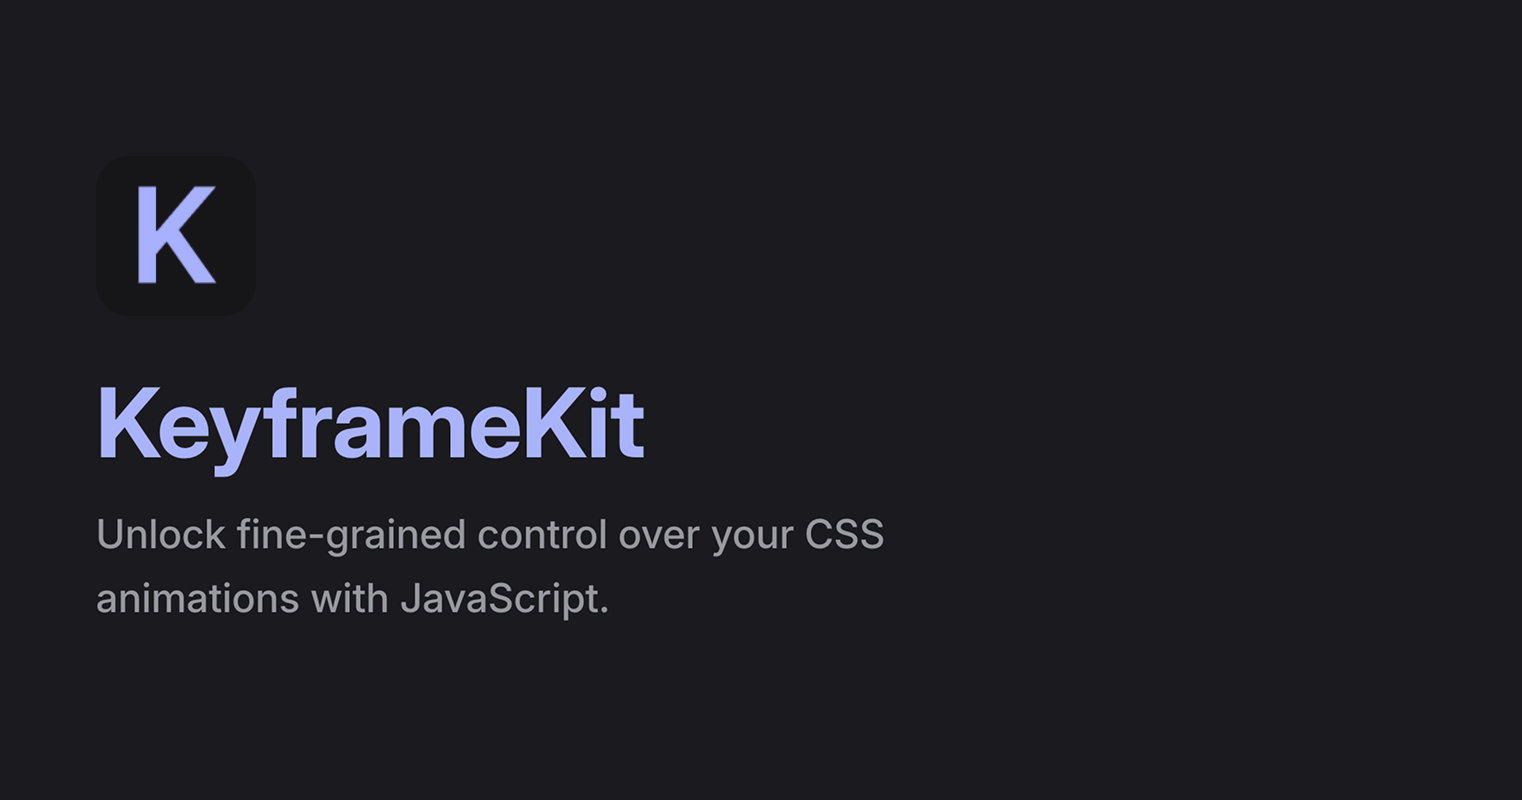
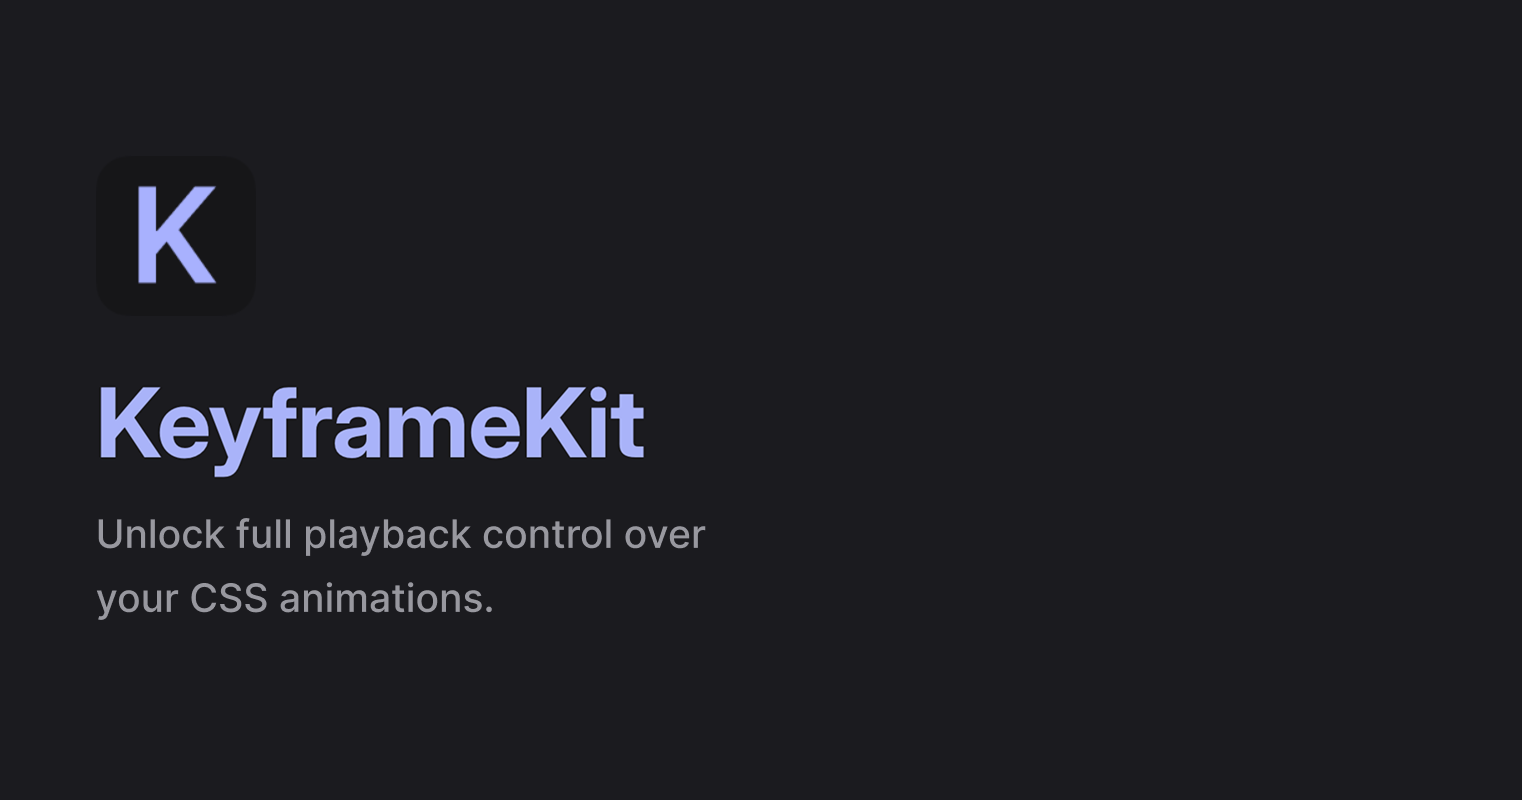
Update build

Changed region(s): [[0.0618, 0.625, 0.5867, 0.7812]]

diff --git a/src/index.ts b/src/index.ts
@@ -5,5 +5,7 @@
  * See README.md for usage.
  */
 
-export * as default from './KeyframesFactory';
+import * as KeyframesFactory from './KeyframesFactory';
+export { KeyframesFactory as default };
+
 export { KeyframeEffectParameters, type KeyframeArgument } from './KeyframeEffectParameters';

diff --git a/docs/.vitepress/config.ts b/docs/.vitepress/config.ts
@@ -35,7 +35,7 @@ export default defineConfig({
   ],
     
   title: 'KeyframeKit',
-  description: 'Unlock fine-grained control over your CSS animations with JavaScript.',
+  description: 'Unlock full playback control over your CSS animations.',
 
   titleTemplate: false,
 

diff --git a/rollup.config.ts b/rollup.config.ts
@@ -42,7 +42,6 @@ export default defineConfig([
     output: {
       file: 'dist/index.d.ts',
       format: 'es',
-      sourcemap: true,
       banner,
       // rollup-plugin-dts dosen't support es2015 syntax.
     },

diff --git a/dist/index.d.ts b/dist/index.d.ts
@@ -181,4 +181,3 @@ declare namespace index {
 
 export { KeyframeEffectParameters, index as default };
 export type { KeyframeArgument };
-//# sourceMappingURL=index.d.ts.map

diff --git a/docs/docs/public/playground/KeyframeKit/dist/index.d.ts b/docs/docs/public/playground/KeyframeKit/dist/index.d.ts
@@ -181,4 +181,3 @@ declare namespace index {
 
 export { KeyframeEffectParameters, index as default };
 export type { KeyframeArgument };
-//# sourceMappingURL=index.d.ts.map

diff --git a/docs/docs/get-started.md b/docs/docs/get-started.md
@@ -1,9 +1,9 @@
 
 # Get Started
 
-## About
+## What is this?
 
-The [Web Animations API][1] opens the browser's animation engine to developers and provides unprecedented control and performance when animating on the web. But confusingly, it provides no easy way to use your existing CSS animations with the API. So I wrote a lightweight, typed, spec-compliant library to convert stylesheet keyframes to Web Animations API-compatible animations, letting you play your CSS-defined animations right in JS. [Read more.][2]
+A lightweight TypeScript library that converts CSS `@keyframes` animations into [Web Animations API][2]-compatible animations, letting you play CSS-defined animations from JavaScript with full playback control and native performance. [Read more.][3]
 
 ## Installation
 

diff --git a/docs/docs/index.md b/docs/docs/index.md
@@ -4,7 +4,7 @@ layout: home
 
 hero:
   name: KeyframeKit
-  tagline: Unlock fine-grained control over your CSS animations with JavaScript.
+  tagline: Unlock full playback control over your CSS animations.
   actions:
     - theme: brand
       text: Get Started
